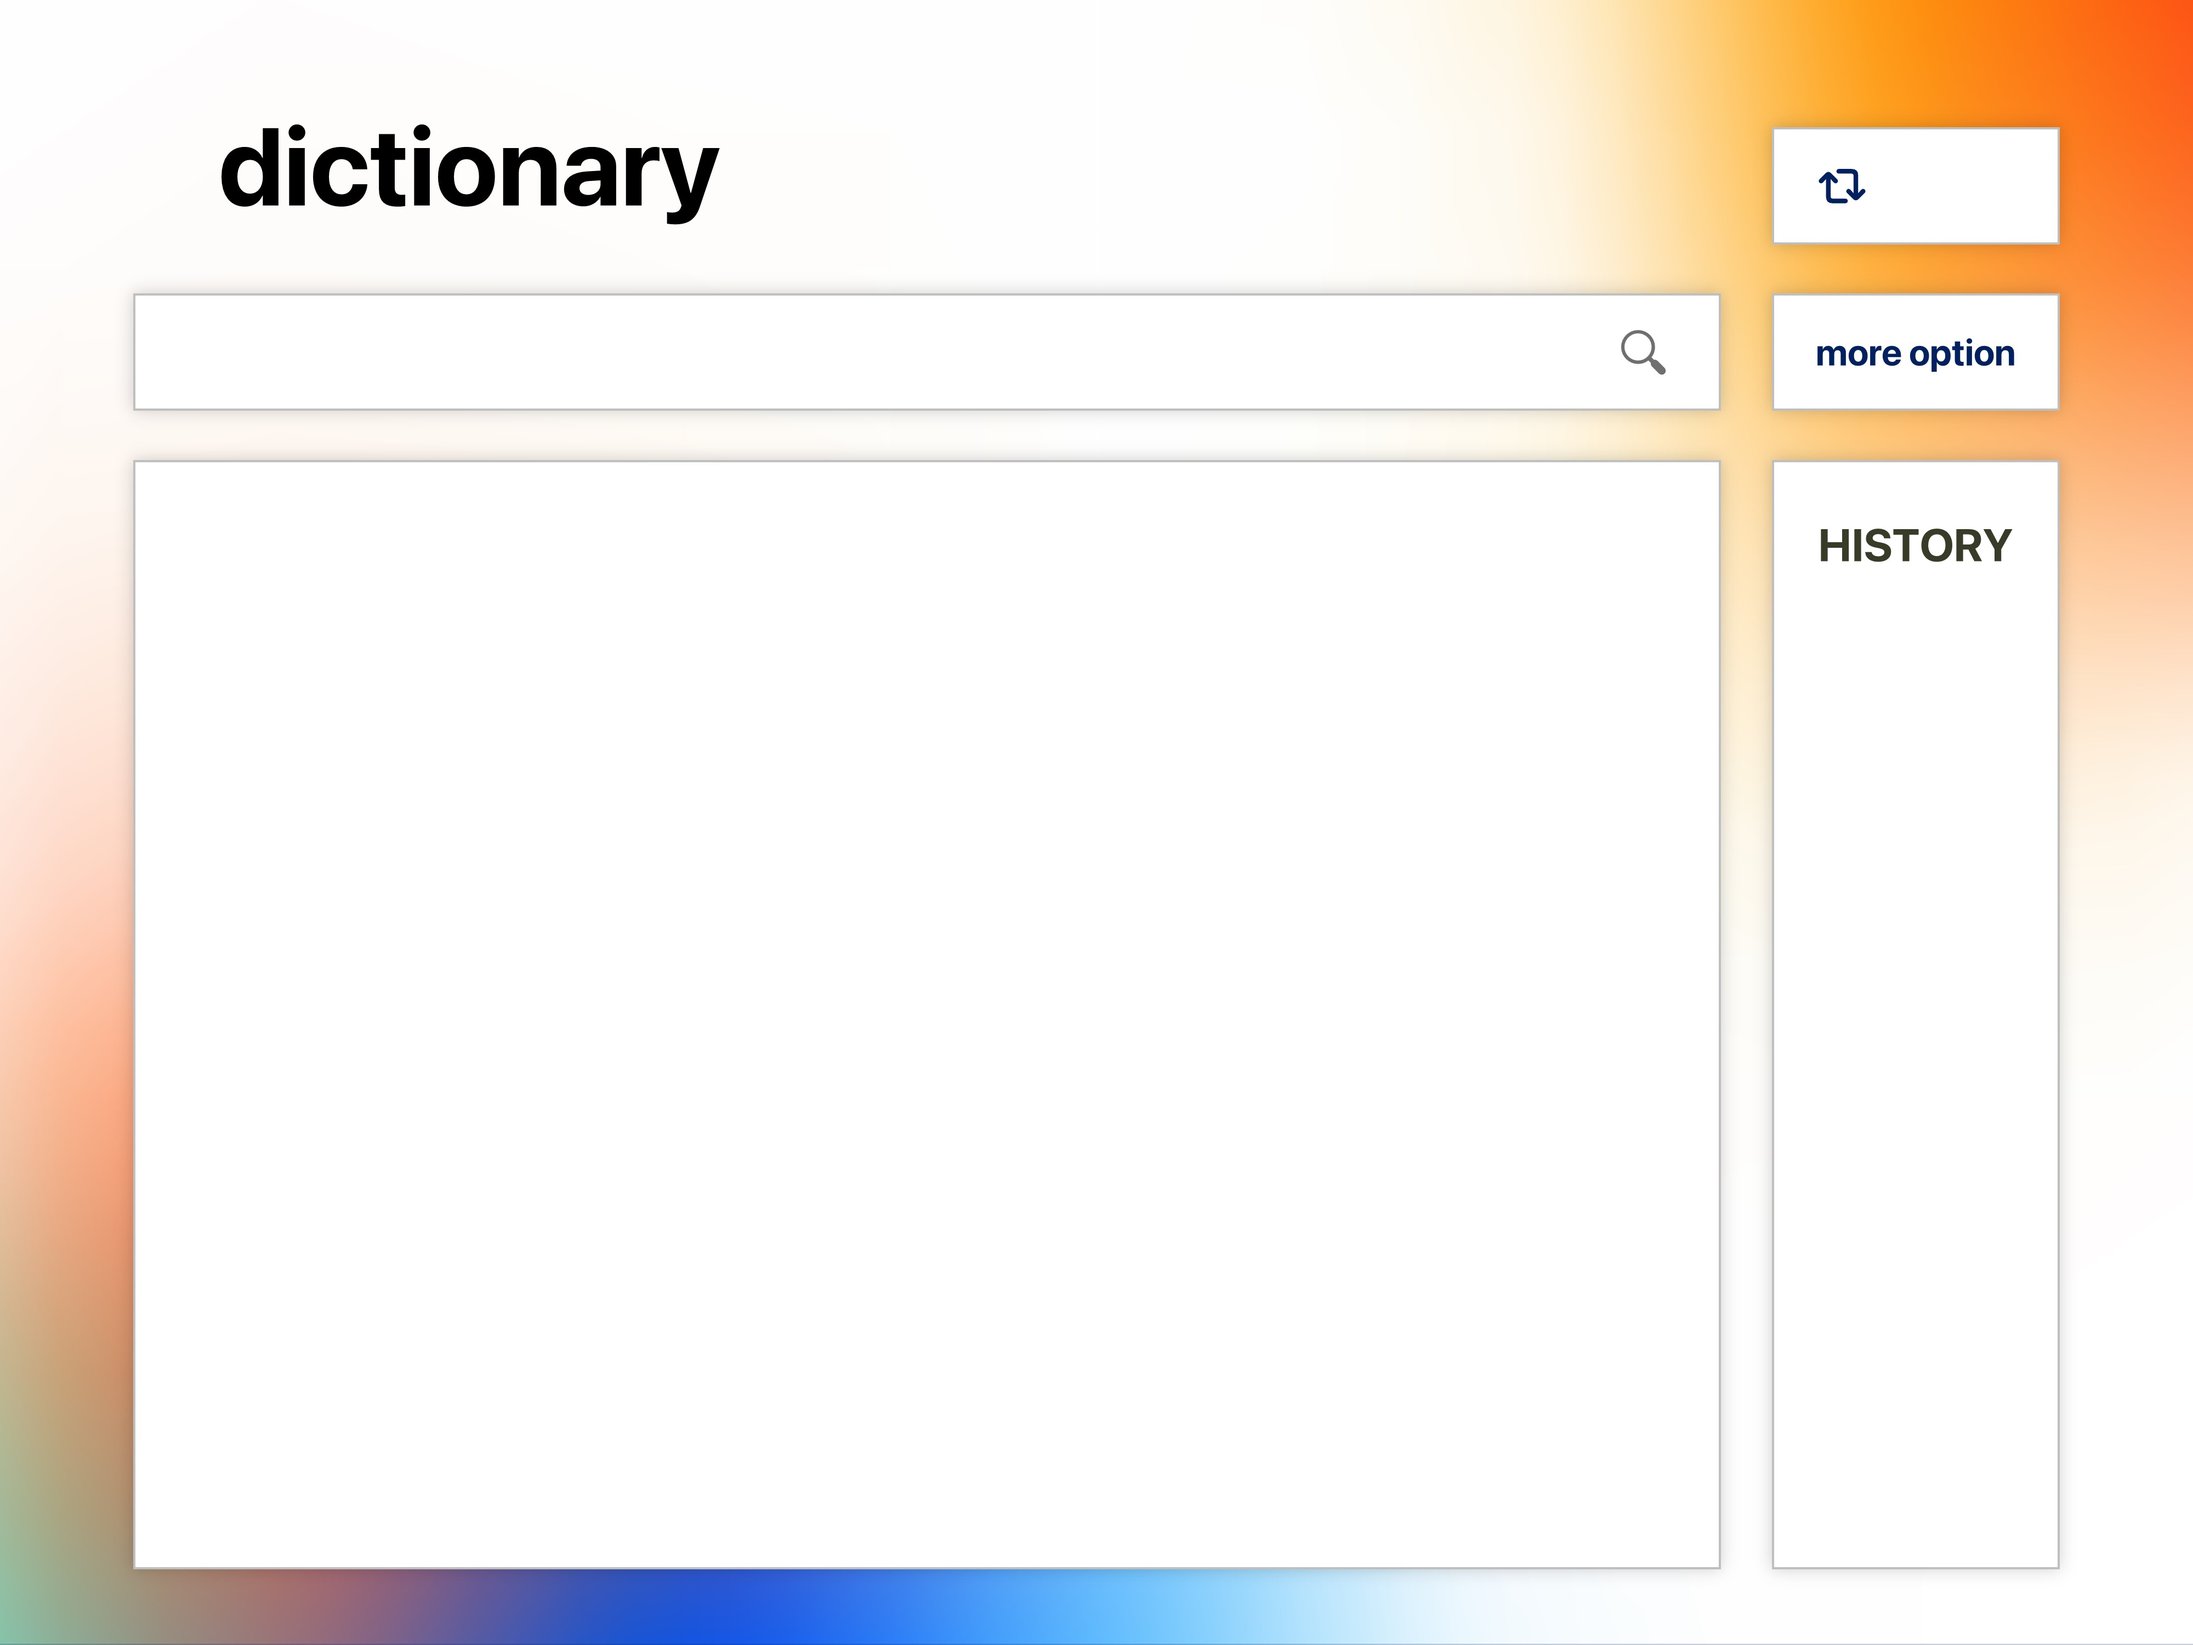
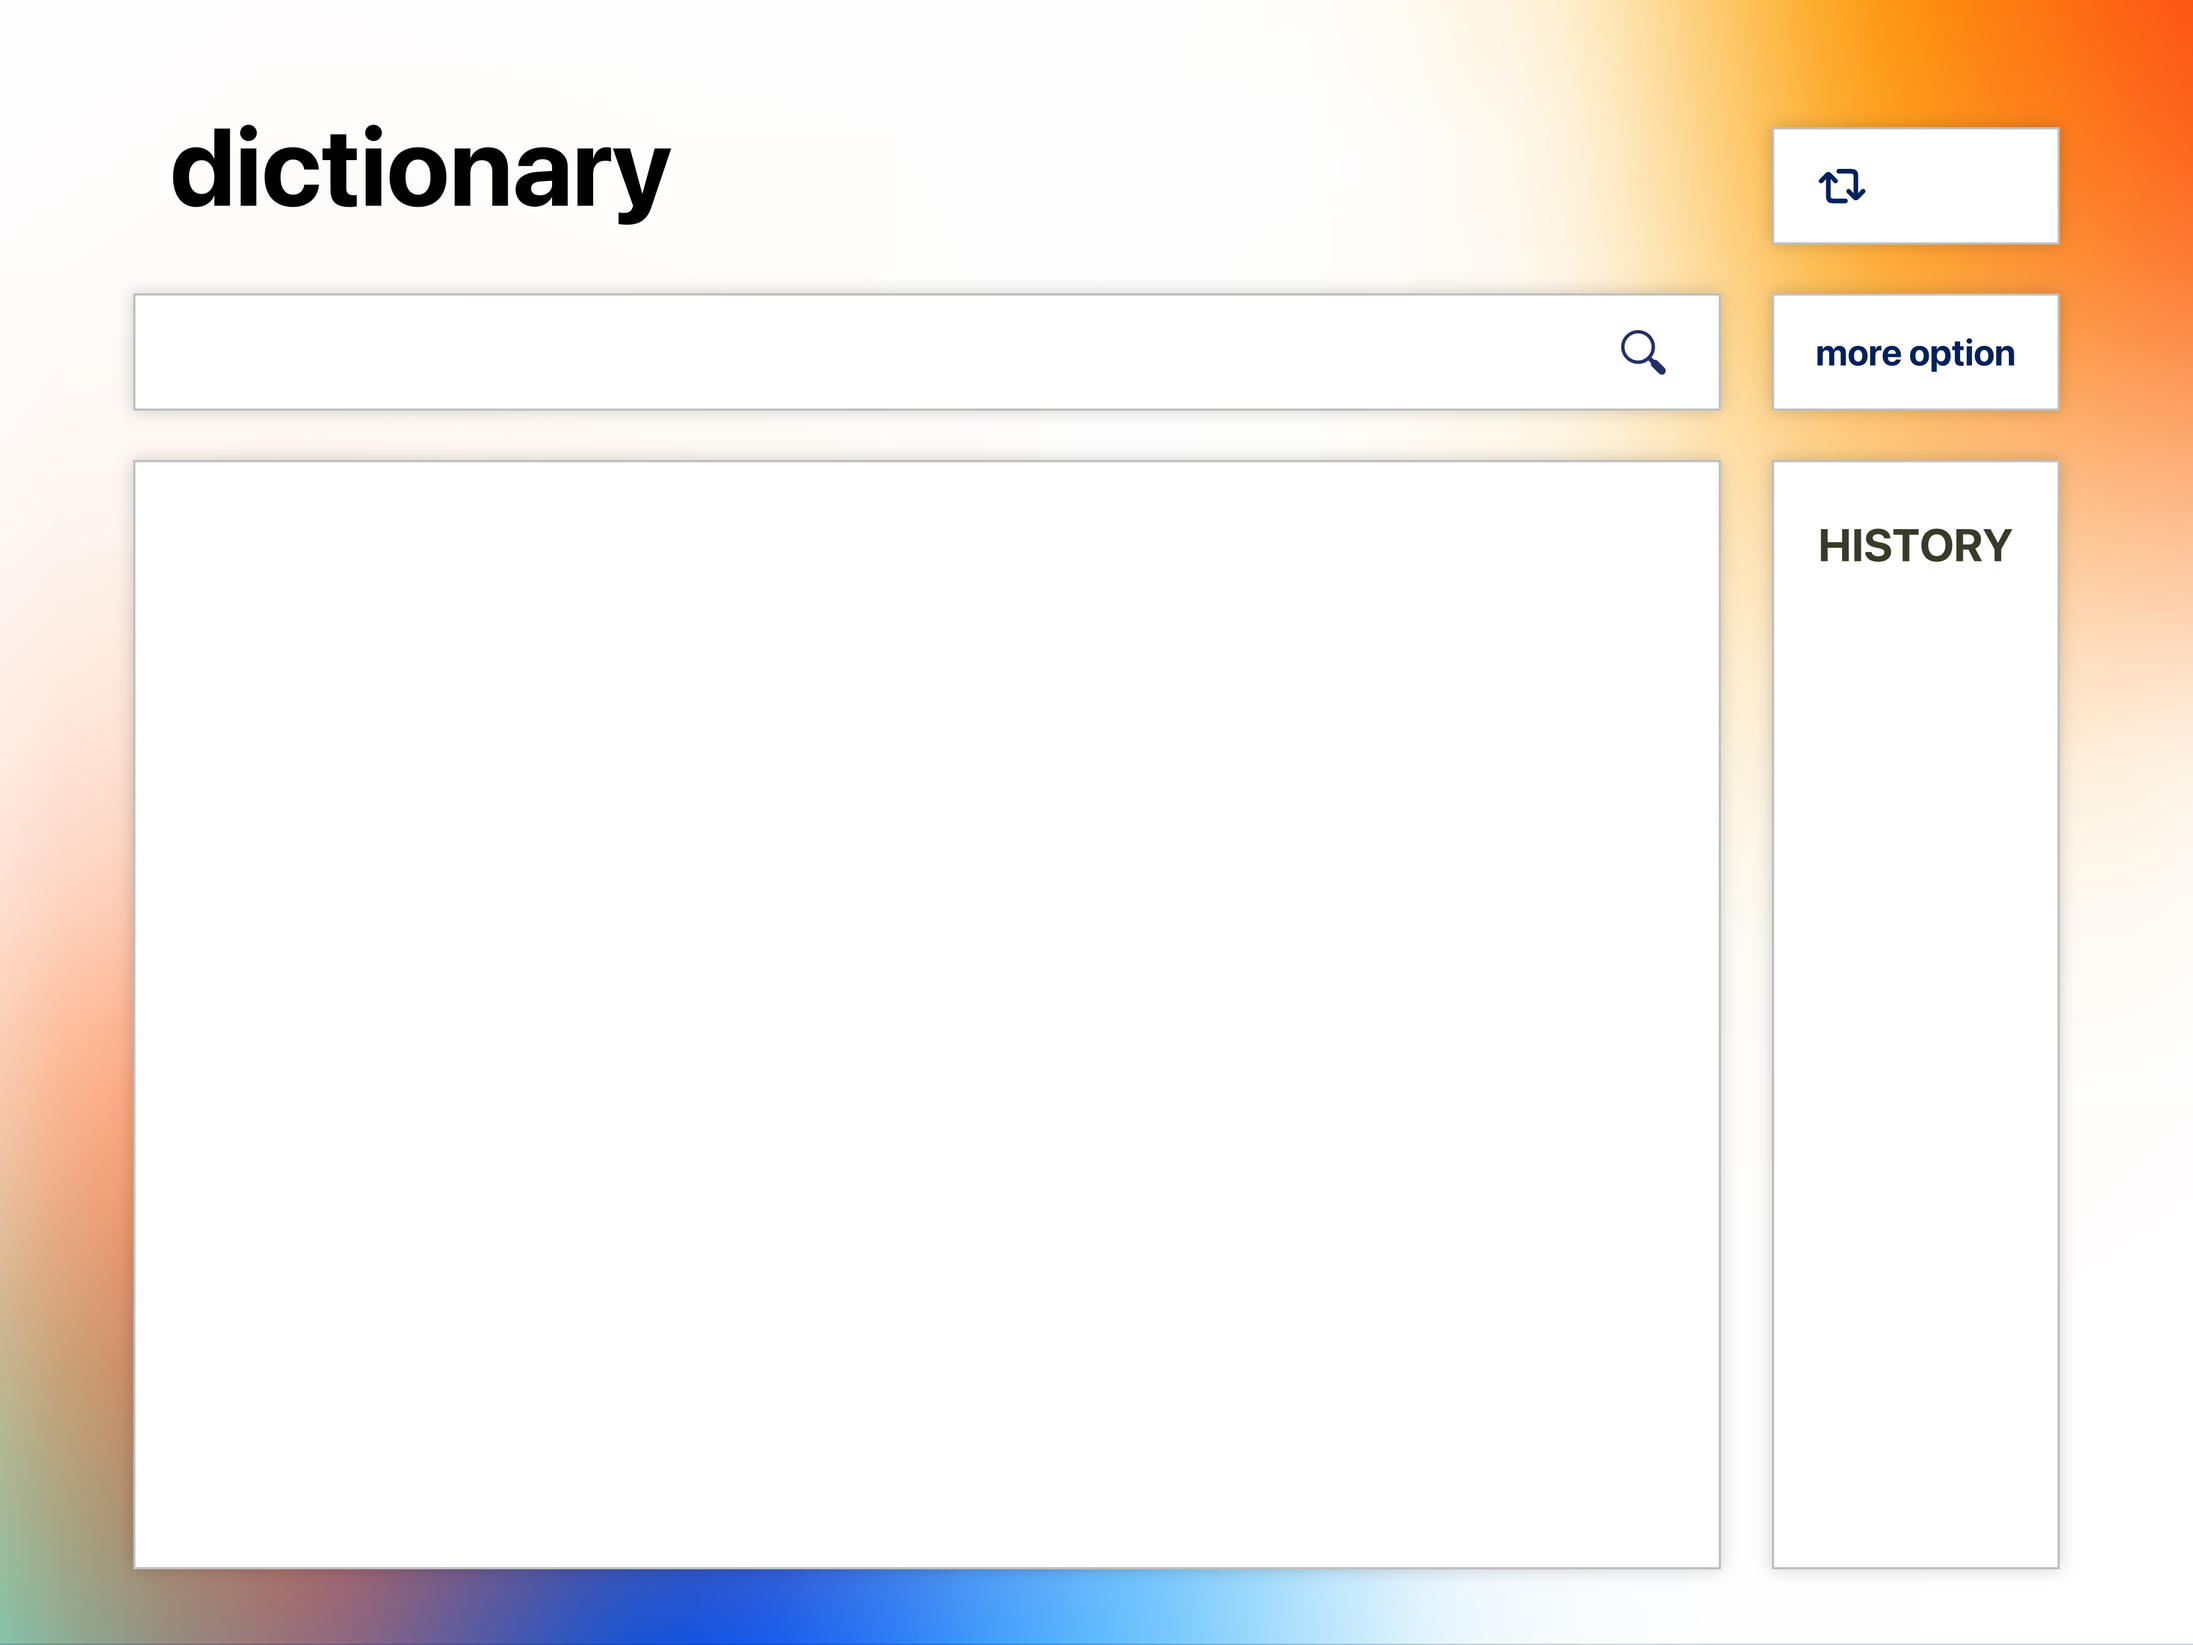
update UI

Changed region(s): [[0.0625, 0.062, 0.3438, 0.155]]

diff --git a/ConsoleApplication1/Application.cpp b/ConsoleApplication1/Application.cpp
@@ -20,7 +20,7 @@ Application::Application() :
 	currentScreen(ScreenState::MainScreen),
 	editDefScreen(nullptr),
 	newWord(nullptr),
-	displayBox({ 72, 240 }, { 880, 610 }, sf::Color::Transparent, sf::Color::Black),
+	displayBox({ 72, 240 }, { 850, 610 }, sf::Color::Transparent, sf::Color::Black),
 	dataSetButton("      EN - EN", { 153, 60 }, 20, sf::Color::Transparent, sf::Color::Black),
 	currentDataSetID(0)
 {
@@ -280,6 +280,8 @@ void Application::initFont()
 	// Load font from file
 	if (!font.loadFromFile("font/SF-Pro-Rounded-Regular.otf"))
 		std::cout << "Font not found!\n";
+	if (!font2.loadFromFile("font/Merriweather-Regular.ttf"))
+		std::cout << "Font not found!\n";
 }
 
 void Application::initSearchBar()
@@ -345,8 +347,8 @@ void Application::initEditDefButton()
 
 void Application::initDisplayBox()
 {
-	displayBox.setFont(font);
-	displayBox.setCharacterSize(30);
+	displayBox.setFont(font2);
+	displayBox.setCharacterSize(25);
 }
 
 void Application::initFavouriteButton()

diff --git a/ConsoleApplication1/DisplayDefinition.cpp b/ConsoleApplication1/DisplayDefinition.cpp
@@ -28,10 +28,10 @@ DisplayBox::DisplayBox(const sf::Vector2f& pos, const sf::Vector2f& size,
     prevButtonSprite()
 {
     theBox.setPosition(pos);
-    float xText = pos.x + 20.f;
-    float yText = pos.y + 20.f;
+    float xText = pos.x + 30.f;
+    float yText = pos.y + 30.f;
     word.setPosition(xText, yText);
-    wordType.setPosition(xText, yText + 50.f);
+    wordType.setPosition(xText, yText + 40.f);
     wordDef.setPosition(xText, yText + 90.f);
     wordExample.setPosition(xText, yText + 250.f);
 
@@ -44,7 +44,7 @@ DisplayBox::DisplayBox(const sf::Vector2f& pos, const sf::Vector2f& size,
     wordExample.setFillColor(sf::Color(128, 128, 128));
 
     word.setStyle(sf::Text::Bold);
-    wordType.setStyle(sf::Text::Bold | sf::Text::Italic);
+    wordType.setStyle(sf::Text::Italic);
     wordDef.setStyle(sf::Text::Regular);
     wordExample.setStyle(sf::Text::Regular);
 

diff --git a/ConsoleApplication1/Application.h b/ConsoleApplication1/Application.h
@@ -61,6 +61,7 @@ private:
         */
 
     sf::Font font;
+    sf::Font font2;
 
     sf::Event event;
     
